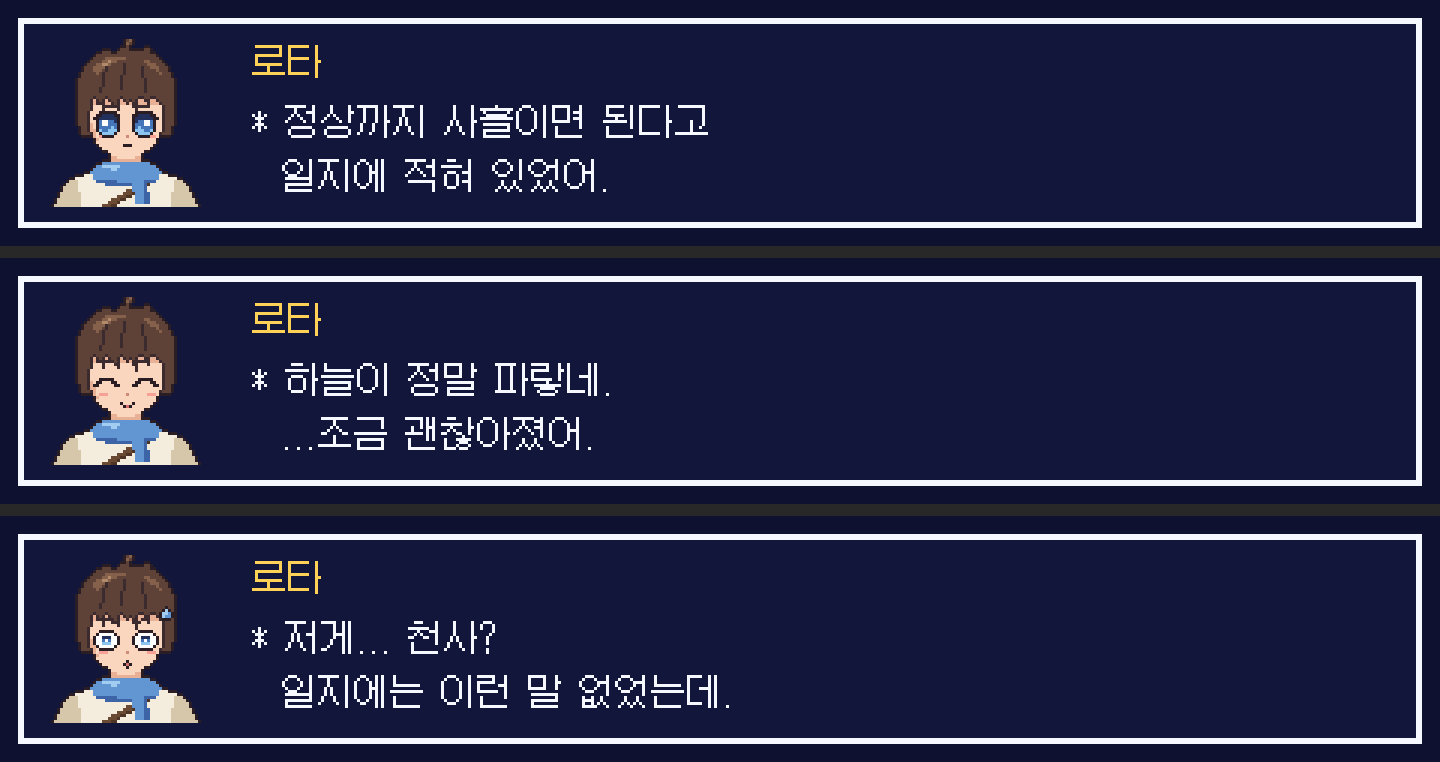
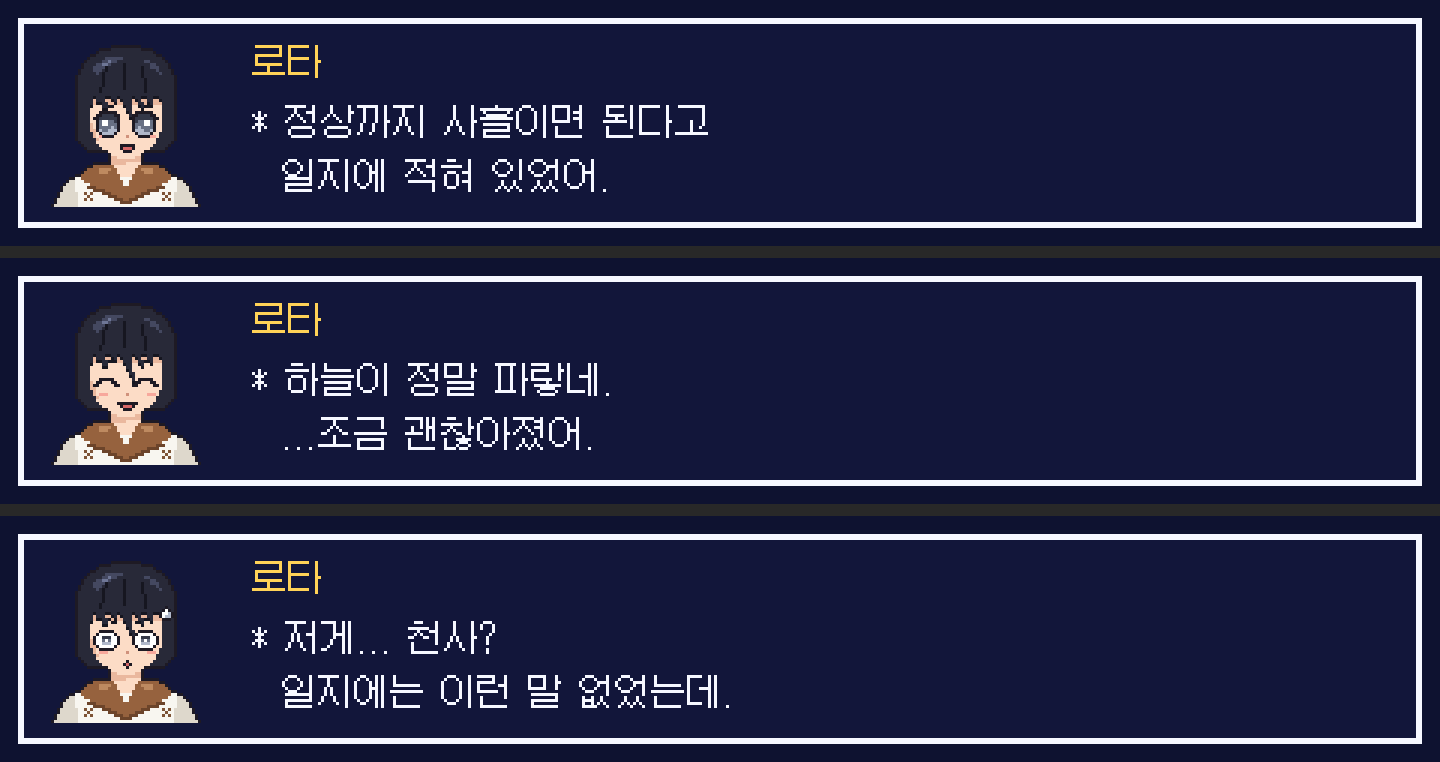
로타 초상화를 직접 그린 설정화에 맞춰 다시 그림: 검은 단발, 흰 웃옷, 갈색 두건 깃
설정화 원본은 docs/refs/rota_tpose.jpg

Claude-Session: https://claude.ai/code/session_013o2MuY9sDztt8LyjMZEytH

diff --git a/tools/portraits/rota.py b/tools/portraits/rota.py
@@ -8,30 +8,30 @@ from PIL import Image
 W = H = 56
 PAL = {
     ".": None,
-    "K": (43, 29, 36),      # outline
-    "h": (59, 43, 47),      # hair dark
-    "H": (94, 66, 55),      # hair mid
-    "I": (133, 96, 74),     # hair light
-    "J": (176, 138, 106),   # hair shine
-    "s": (255, 233, 214),   # skin light
-    "S": (250, 214, 190),   # skin
-    "T": (232, 177, 150),   # skin shade
-    "U": (205, 140, 120),   # skin deep shade / nose
-    "b": (246, 160, 150),   # blush
+    "K": (30, 26, 36),      # outline
+    "h": (22, 22, 32),      # hair darkest
+    "H": (40, 41, 56),      # hair
+    "I": (68, 72, 96),      # hair sheen
+    "J": (110, 118, 150),   # hair shine
+    "s": (255, 235, 218),   # skin light
+    "S": (252, 220, 198),   # skin
+    "T": (234, 184, 158),   # skin shade
+    "U": (208, 146, 124),   # nose
+    "b": (247, 168, 156),   # blush
     "W": (255, 255, 255),
-    "e": (36, 48, 92),      # iris dark
-    "E": (70, 118, 186),    # iris
-    "F": (140, 196, 240),   # iris light
+    "e": (52, 56, 72),      # iris dark
+    "E": (104, 112, 132),   # iris
+    "F": (176, 184, 202),   # iris light
     "m": (150, 70, 70),     # mouth
-    "n": (215, 110, 110),   # mouth inside
-    "c": (244, 236, 220),   # tunic
-    "C": (214, 199, 170),   # tunic shade
-    "D": (170, 150, 122),   # tunic deep
-    "l": (163, 205, 240),   # scarf light
-    "L": (98, 150, 210),    # scarf
-    "M": (60, 100, 166),    # scarf shade
-    "r": (107, 74, 51),     # strap
-    "R": (78, 52, 36),      # strap dark
+    "n": (214, 104, 104),   # mouth inside
+    "c": (248, 246, 240),   # tunic
+    "C": (222, 216, 204),   # tunic shade
+    "D": (184, 176, 160),   # tunic deep
+    "l": (190, 138, 96),    # hood light
+    "L": (150, 98, 62),     # hood
+    "M": (108, 68, 42),     # hood shade
+    "r": (126, 84, 54),     # stitches
+    "R": (70, 50, 40),      # strings
 }
 
 
@@ -118,8 +118,8 @@ BROWS = {
     "fear": [(3, -1, "hh"), (1, 0, "hh")],
 }
 MOUTHS = {
-    "base": ["..KKK.."],
-    "smile": [".K...K.", "..KnK.."],
+    "base": [".KKKKK.", ".KnnnK.", "..KKK.."],
+    "smile": ["KKKKKKK", ".KnnnK.", "..KKK.."],
     "fear": ["...K...", "..KnK..", "...K..."],
 }
 SKIN = set("sSTUb")
@@ -132,24 +132,22 @@ def mirror(rows):
 
 def portrait(face):
     g = blank()
-    # ---------- shoulders: cream tunic, a strap across the chest ----------
+    # ---------- shoulders: white tunic under a brown hood collar ----------
     poly(g, [(4, 56), (8, 48), (16, 44.5), (40, 44.5), (48, 48), (52, 56)], "c")
-    poly(g, [(4, 56), (8, 48), (12, 46.5), (13, 56)], "C")
-    poly(g, [(43, 56), (44, 46.5), (48, 48), (52, 56)], "C")
-    poly(g, [(36, 46), (40, 46), (24, 56), (19, 56)], "r")
-    poly(g, [(38.5, 46), (40, 46), (24, 56), (22.5, 56)], "R")
+    poly(g, [(4, 56), (8, 48), (11, 46.5), (12, 56)], "C")
+    poly(g, [(44, 56), (45, 46.5), (48, 48), (52, 56)], "C")
     poly(g, [(23, 36), (33, 36), (33, 46), (23, 46)], "S")                 # neck
     poly(g, [(23, 38), (33, 38), (33, 41), (23, 42)], "T")
-    # ---------- scarf in the village's sky blue ----------
-    poly(g, [(16, 44), (21, 41), (35, 41), (40, 44), (38, 48), (28, 49.5), (18, 48)], "L")
-    poly(g, [(18, 46.5), (28, 48), (38, 46.5), (38, 48), (28, 49.5), (18, 48)], "M")
-    poly(g, [(20, 42.5), (27, 42), (24, 44)], "l")
-    poly(g, [(30, 47), (35, 47), (36, 55), (31, 55)], "L")
-    poly(g, [(33.5, 47), (35, 47), (36, 55), (34.5, 55)], "M")
-    # ---------- back hair: tufts on top, short at the sides ----------
-    poly(g, [(12, 24), (12.5, 13), (15, 8), (18, 5.5), (21, 3.5), (24, 5), (27, 2.5), (31, 4.5), (35, 3), (38, 6), (41, 8.5), (43.5, 13), (44, 24),
-             (43, 32), (13, 32)], "H")
-    poly(g, [(27, 3.5), (28.5, 0.5), (31, 0), (29.5, 1.5), (29, 4)], "H")    # the one strand that never lies down
+    # the hood lies around the neck and dips to a V at the chest
+    poly(g, [(12, 46), (18, 41.5), (24, 42.5), (28, 50), (32, 42.5), (38, 41.5), (44, 46), (40, 48.5), (32, 52), (28, 54), (24, 52), (16, 48.5)], "L")
+    poly(g, [(16, 48.5), (24, 52), (28, 54), (32, 52), (40, 48.5), (41, 49.5), (32, 53.5), (28, 55.5), (24, 53.5), (15, 49.5)], "M")
+    poly(g, [(18, 42.5), (23, 43.5), (20, 45.5)], "l")
+    poly(g, [(33, 43.5), (38, 42.5), (36, 45.5)], "l")
+    for x0 in (14, 40):                                                    # cross stitches down the front
+        for dx, dy in ((0, 0), (2, 0), (1, 1), (0, 2), (2, 2)):
+            g[51 + dy][x0 + dx] = "r"
+    # ---------- back hair: a round, full cut down to the jaw ----------
+    poly(g, [(11.5, 24), (12, 13), (15, 7.5), (20, 4), (28, 2.5), (36, 4), (41, 7.5), (44, 13), (44.5, 24), (44, 34), (40, 37), (16, 37), (12, 34)], "H")
     # ears
     for x0, d in ((13, 1), (43, -1)):
         poly(g, [(x0, 24), (x0 + 3 * d, 23.5), (x0 + 3.5 * d, 31), (x0 + 1.5 * d, 31.5)] if d > 0 else
@@ -163,21 +161,19 @@ def portrait(face):
     for x, y in ((19, 32), (20, 32), (21, 32), (35, 32), (36, 32), (37, 32)):
         g[y][x] = "b"
     g[32][28] = "U"
-    # ---------- fringe: strands falling to between the eyes ----------
-    poly(g, [(13, 18), (15, 11), (21, 7), (35, 7), (41, 11), (43, 18), (43, 20), (13, 20)], "H")
-    strands = [((13, 19), (16, 12), (17.5, 25)), ((16, 19), (20, 11), (21.5, 24.5)), ((20, 18), (24, 10), (26.5, 25.5)),
-               ((25, 18), (28, 10), (29, 23)), ((28, 18), (32, 10), (31.5, 25)), ((32, 18), (36, 11), (36.5, 24)),
-               ((36, 19), (40, 12), (42.5, 25))]
+    # ---------- fringe: spiky strands, one long lock falling between the eyes ----------
+    poly(g, [(13, 18), (15, 11), (21, 6.5), (35, 6.5), (41, 11), (43, 18), (43, 20), (13, 20)], "H")
+    strands = [((13, 19), (16, 12), (17.5, 24)), ((16, 19), (20, 11), (22, 25)), ((21, 18), (24, 10), (25.5, 23.5)),
+               ((25, 18), (28, 10), (31.5, 30.5)), ((29, 18), (32, 10), (34, 24.5)), ((33, 18), (37, 11), (37.5, 25)),
+               ((37, 19), (40, 12), (42.5, 24))]
     for a, b, c in strands:
         poly(g, [a, b, c], "H")
-    poly(g, [(12, 18), (15.5, 18), (16, 30), (14, 33), (12.5, 29)], "H")    # side lock in front of the left ear
-    poly(g, [(40.5, 18), (44, 18), (43.5, 29), (42, 33), (40, 30)], "H")
-    # light on the crown, and a few strand lines
-    poly(g, [(16, 10), (21, 6.5), (29, 6), (23, 8.5), (18.5, 12)], "I")
-    poly(g, [(19.5, 8.5), (24, 7), (21, 9.5)], "J")
-    poly(g, [(33, 6.5), (38, 8.5), (40.5, 12.5), (36.5, 9.5)], "I")
-    poly(g, [(28, 1), (30, 0.3), (29, 2)], "I")
-    for (x0, y0), (x1, y1) in (((21, 9), (19, 17)), ((27, 8), (26, 16)), ((33, 9), (34, 17))):
+    poly(g, [(12, 18), (15.5, 18), (16.5, 33), (15, 37), (12.5, 33)], "H")  # side locks to the jaw
+    poly(g, [(40.5, 18), (44, 18), (43.5, 33), (41, 37), (39.5, 33)], "H")
+    poly(g, [(16, 10), (21, 6.5), (29, 5.5), (23, 8.5), (18.5, 12)], "I")  # cool sheen on black hair
+    poly(g, [(19.5, 8.5), (24, 6.8), (21, 9.5)], "J")
+    poly(g, [(33, 6), (38, 8.5), (40.5, 12.5), (36.5, 9.5)], "I")
+    for (x0, y0), (x1, y1) in (((21, 9), (19, 17)), ((27, 8), (27, 16)), ((33, 9), (34, 17))):
         n = max(abs(x1 - x0), abs(y1 - y0))
         for k in range(n + 1):
             g[round(y0 + (y1 - y0) * k / n)][round(x0 + (x1 - x0) * k / n)] = "h"
@@ -185,7 +181,7 @@ def portrait(face):
     src = [r[:] for r in g]
     for y in range(H):
         for x in range(W):
-            if src[y][x] in HAIR and any(0 <= y + dy < H and 0 <= x + dx < W and src[y + dy][x + dx] in SKIN for dx, dy in ((0, 1), (1, 0), (-1, 0))):
+            if src[y][x] in HAIR and any(0 <= y + dy < H and 0 <= x + dx < W and src[y + dy][x + dx] in SKIN for dx, dy in ((0, 1),)):
                 g[y][x] = "h"
     outline(g)
     # ---------- the face itself ----------
@@ -200,7 +196,7 @@ def portrait(face):
                     g[y][xx] = ch
     stamp(g, 25, 35, MOUTHS[face])
     if face == "fear":                                                   # a bead of sweat
-        stamp(g, 39, 17, ["..K..", ".KlK.", "KllLK", "KlLLK", ".KKK."])
+        stamp(g, 39, 17, ["..K..", ".KWK.", "KWWFK", "KWFFK", ".KKK."])
     return g
 
 
